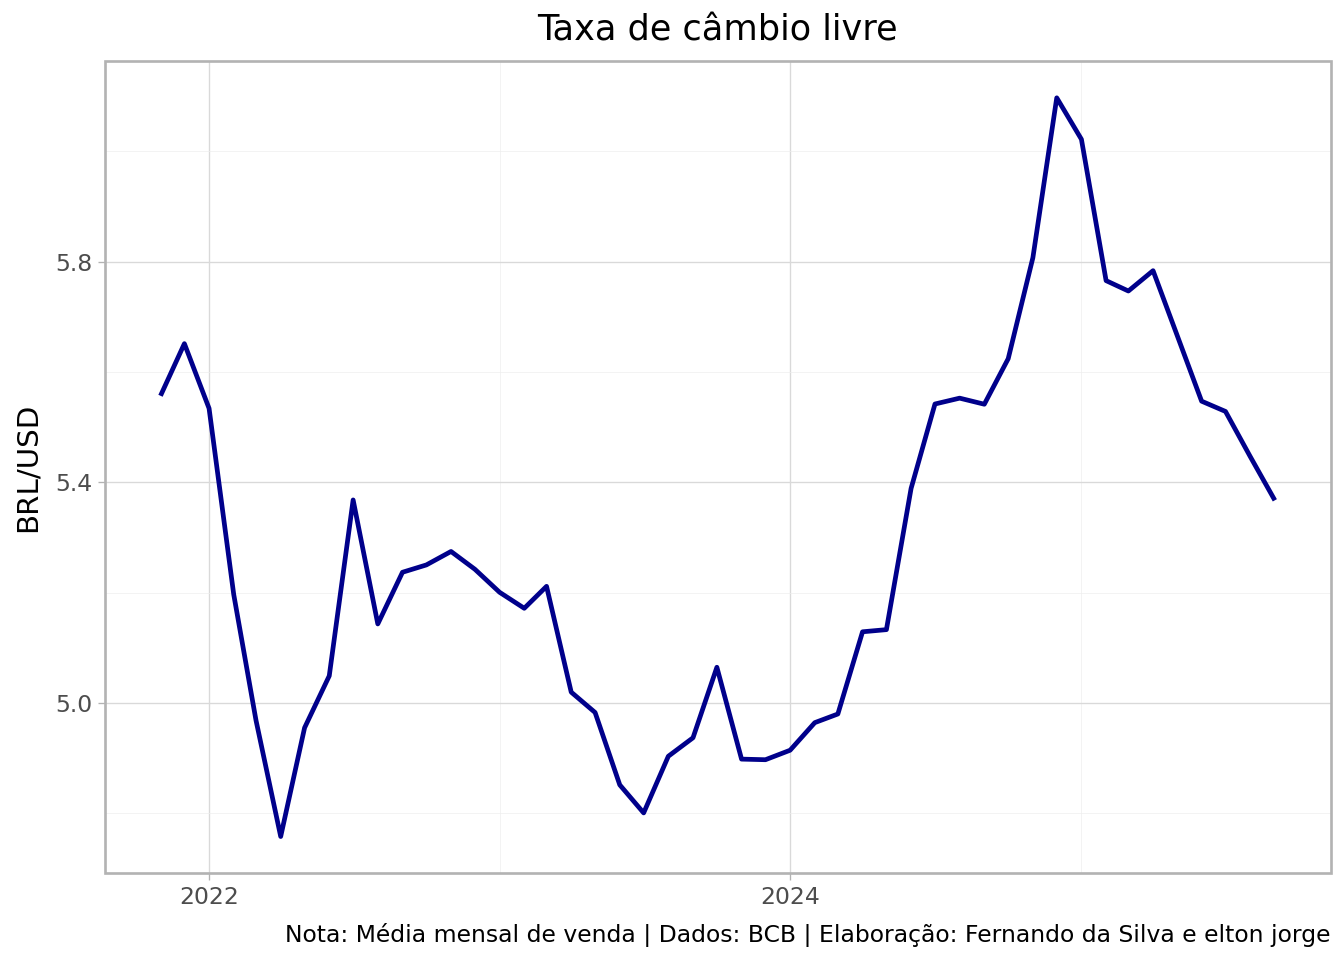
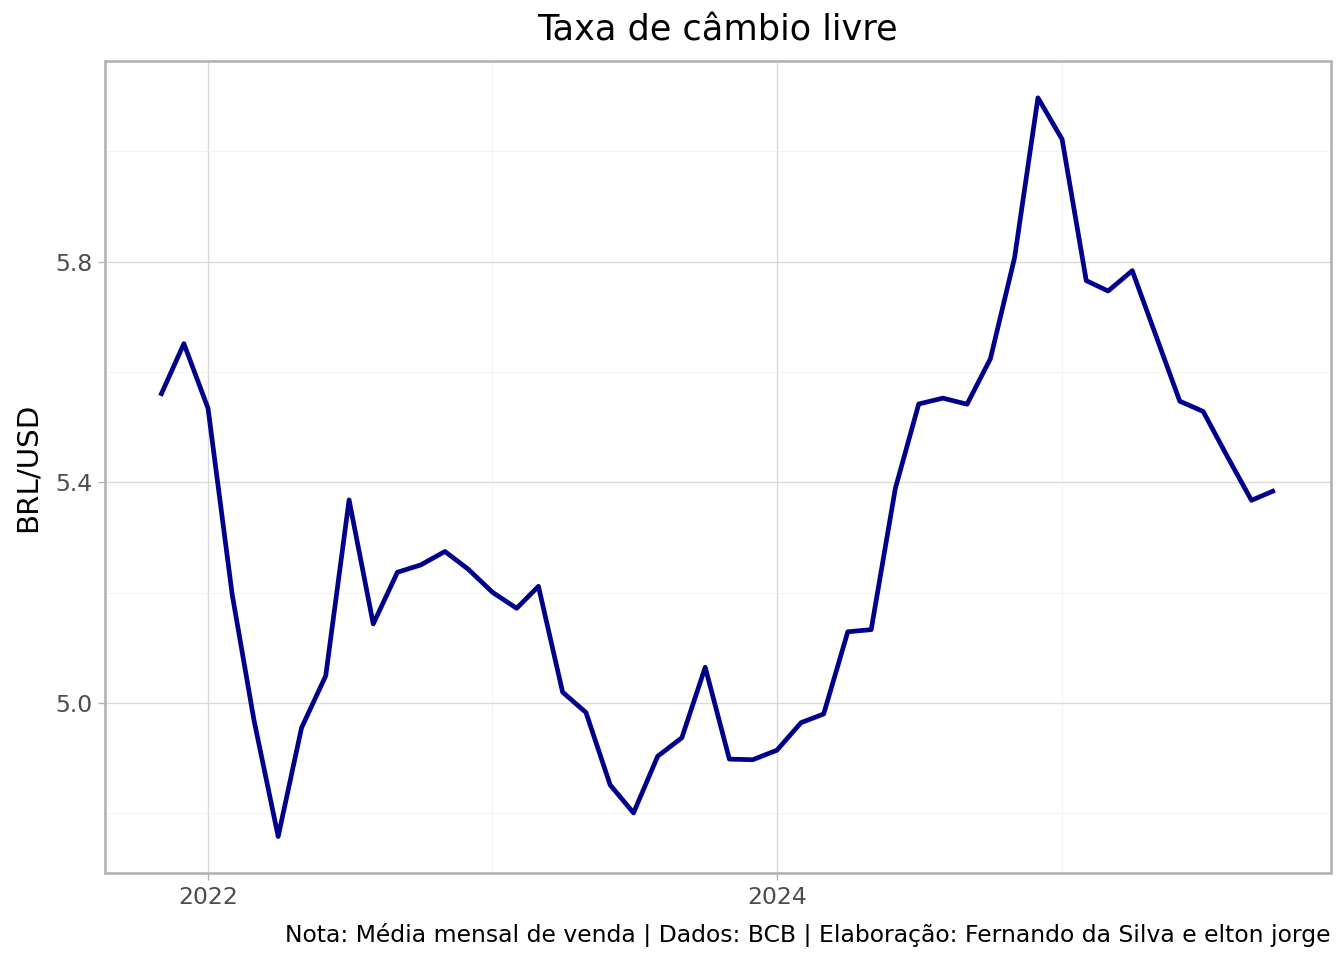
Automação de relatorio/Dashboard

diff --git a/relatorio/relatorio.html b/relatorio/relatorio.html
@@ -110,7 +110,7 @@ pre > code.sourceCode > span > a:first-child::before { text-decoration: underlin
 <section id="bibliotecas" class="level2">
 <h2 class="anchored" data-anchor-id="bibliotecas">Bibliotecas</h2>
 <p>Primeiro é necessário importar as bibliotecas de Python (e instalar caso não estejam instalados ainda) para usar as funções úteis de coleta, tratamento e visualização de dados:</p>
-<div id="222b2835" class="cell" data-execution_count="1">
+<div id="c0471872" class="cell" data-execution_count="1">
 <div class="sourceCode cell-code" id="cb1"><pre class="sourceCode python code-with-copy"><code class="sourceCode python"><span id="cb1-1"><a href="#cb1-1" aria-hidden="true" tabindex="-1"></a><span class="co"># Importar bibliotecas</span></span>
 <span id="cb1-2"><a href="#cb1-2" aria-hidden="true" tabindex="-1"></a><span class="im">from</span> bcb <span class="im">import</span> sgs</span>
 <span id="cb1-3"><a href="#cb1-3" aria-hidden="true" tabindex="-1"></a><span class="im">import</span> pandas <span class="im">as</span> pd</span>
@@ -120,7 +120,7 @@ pre > code.sourceCode > span > a:first-child::before { text-decoration: underlin
 <section id="dados" class="level2">
 <h2 class="anchored" data-anchor-id="dados">Dados</h2>
 <p>Em seguida é necessário identificar o código da série temporal desejada no sistema SGS/BCB e utilizar este código para obter os dados com a bibliotecas <code>python-bcb</code>:</p>
-<div id="c2b1aeb3" class="cell" data-execution_count="2">
+<div id="75ba617e" class="cell" data-execution_count="2">
 <div class="sourceCode cell-code" id="cb2"><pre class="sourceCode python code-with-copy"><code class="sourceCode python"><span id="cb2-1"><a href="#cb2-1" aria-hidden="true" tabindex="-1"></a><span class="co"># Coleta de dados</span></span>
 <span id="cb2-2"><a href="#cb2-2" aria-hidden="true" tabindex="-1"></a>dados <span class="op">=</span> sgs.get(</span>
 <span id="cb2-3"><a href="#cb2-3" aria-hidden="true" tabindex="-1"></a>    codes <span class="op">=</span> {<span class="st">"cambio"</span>: <span class="dv">3698</span>},</span>
@@ -128,7 +128,7 @@ pre > code.sourceCode > span > a:first-child::before { text-decoration: underlin
 <span id="cb2-5"><a href="#cb2-5" aria-hidden="true" tabindex="-1"></a>    )</span></code><button title="Copy to Clipboard" class="code-copy-button"><i class="bi"></i></button></pre></div>
 </div>
 <p>Os dados brutos obtidos no SGS/BCB são exibidos abaixo:</p>
-<div id="6e93baac" class="cell" data-execution_count="3">
+<div id="c6a57a43" class="cell" data-execution_count="3">
 <div class="sourceCode cell-code" id="cb3"><pre class="sourceCode python code-with-copy"><code class="sourceCode python"><span id="cb3-1"><a href="#cb3-1" aria-hidden="true" tabindex="-1"></a>dados.tail()</span></code><button title="Copy to Clipboard" class="code-copy-button"><i class="bi"></i></button></pre></div>
 <div class="cell-output cell-output-display" data-execution_count="3">
 <div>
@@ -147,24 +147,24 @@ pre > code.sourceCode > span > a:first-child::before { text-decoration: underlin
 </thead>
 <tbody>
 <tr class="odd">
-<td data-quarto-table-cell-role="th">2025-05-01</td>
-<td>5.6674</td>
-</tr>
-<tr class="even">
 <td data-quarto-table-cell-role="th">2025-06-01</td>
 <td>5.5471</td>
 </tr>
-<tr class="odd">
+<tr class="even">
 <td data-quarto-table-cell-role="th">2025-07-01</td>
 <td>5.5285</td>
 </tr>
-<tr class="even">
+<tr class="odd">
 <td data-quarto-table-cell-role="th">2025-08-01</td>
 <td>5.4469</td>
 </tr>
-<tr class="odd">
+<tr class="even">
 <td data-quarto-table-cell-role="th">2025-09-01</td>
 <td>5.3674</td>
+</tr>
+<tr class="odd">
+<td data-quarto-table-cell-role="th">2025-10-01</td>
+<td>5.3855</td>
 </tr>
 </tbody>
 </table>
@@ -173,14 +173,14 @@ pre > code.sourceCode > span > a:first-child::before { text-decoration: underlin
 </div>
 </div>
 <p>Abaixo criamos uma colunna adicional com a informação do índice da tabela:</p>
-<div id="027c029f" class="cell" data-execution_count="4">
+<div id="23b424d2" class="cell" data-execution_count="4">
 <div class="sourceCode cell-code" id="cb4"><pre class="sourceCode python code-with-copy"><code class="sourceCode python"><span id="cb4-1"><a href="#cb4-1" aria-hidden="true" tabindex="-1"></a>dados <span class="op">=</span> dados.assign(data <span class="op">=</span> dados.index)</span></code><button title="Copy to Clipboard" class="code-copy-button"><i class="bi"></i></button></pre></div>
 </div>
 </section>
 <section id="visualização-de-dados" class="level2">
 <h2 class="anchored" data-anchor-id="visualização-de-dados">Visualização de Dados</h2>
 <p>Por fim, pode ser utilizado um pacote de visualização de dados como o <code>plotnine</code> para gerar um gráfico de linha com a série da taxa de câmbio:</p>
-<div id="d458b777" class="cell" data-execution_count="5">
+<div id="8e649269" class="cell" data-execution_count="5">
 <div class="sourceCode cell-code" id="cb5"><pre class="sourceCode python code-with-copy"><code class="sourceCode python"><span id="cb5-1"><a href="#cb5-1" aria-hidden="true" tabindex="-1"></a><span class="co"># Gráfico de linha</span></span>
 <span id="cb5-2"><a href="#cb5-2" aria-hidden="true" tabindex="-1"></a>grafico <span class="op">=</span>(p9.ggplot(data <span class="op">=</span> dados) <span class="op">+</span></span>
 <span id="cb5-3"><a href="#cb5-3" aria-hidden="true" tabindex="-1"></a>  p9.aes(x <span class="op">=</span> <span class="st">"data"</span>, y <span class="op">=</span> <span class="st">"cambio"</span>) <span class="op">+</span></span>
